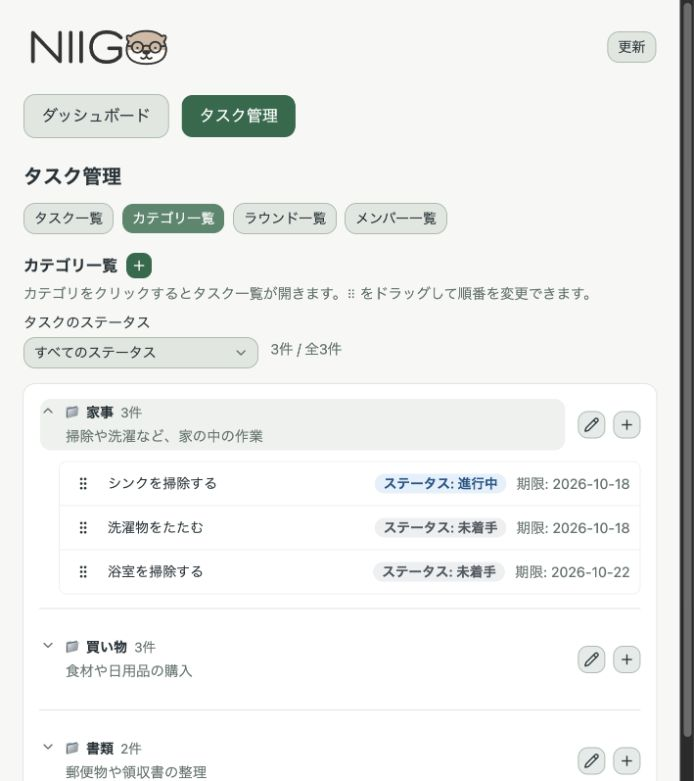
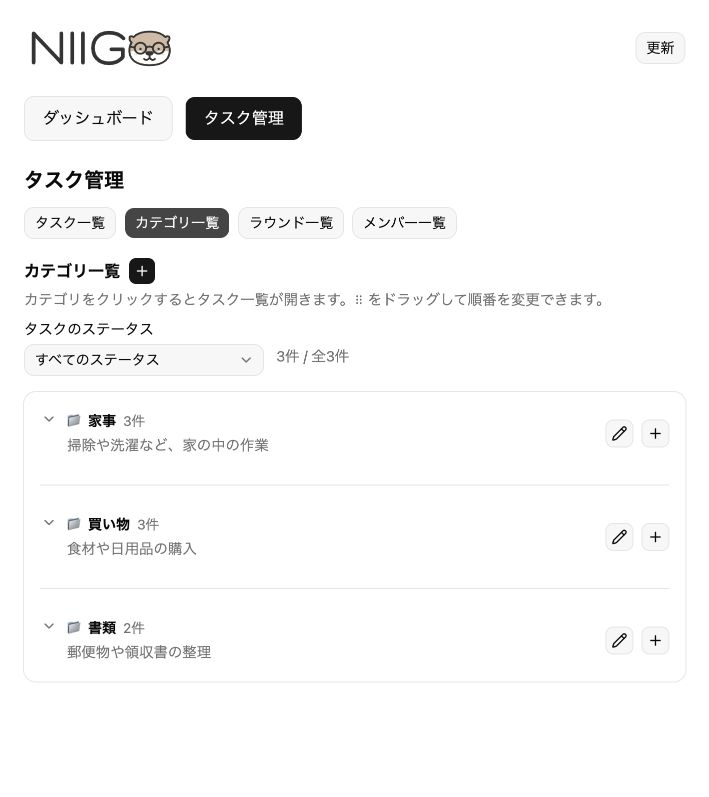
Use shadcn neutral theme for UI

diff --git a/ui/src/styles/layout.css b/ui/src/styles/layout.css
@@ -12,16 +12,16 @@ h3 { font-size: 1rem; font-weight: 600; }
 .toolbar h2, .toolbar h3 { margin: 0; }
 .muted { color: var(--muted-foreground); font-size: .9rem; }
 .toolbar .muted { margin: 4px 0 0; }
-.error { color: #a02525; background: #fff0ee; padding: 12px; border-radius: 8px; margin: 12px 0; }
+.error { color: var(--destructive); background: color-mix(in oklch, var(--destructive) 8%, white); padding: 12px; border-radius: 8px; margin: 12px 0; }
 .empty { color: var(--muted-foreground); padding: 28px; text-align: center; }
 .kanban { display: grid; grid-template-columns: repeat(3, minmax(0, 1fr)); gap: 14px; margin-top: 18px; align-items: start; }
-.kanban-column { background: #edf1ed; border-radius: 12px; padding: 12px; min-width: 0; }
-.kanban-column.drag-over { background: #dcebe0; outline: 2px dashed #5b9874; outline-offset: 2px; }
+.kanban-column { background: var(--muted); border-radius: 12px; padding: 12px; min-width: 0; }
+.kanban-column.drag-over { background: var(--accent); outline: 2px dashed var(--ring); outline-offset: 2px; }
 .kanban-column > h3, .mobile-dashboard-column > h3 { display: flex; justify-content: space-between; align-items: center; margin: 2px 2px 12px; font-size: 1rem; }
-.count { display: inline-grid; place-items: center; min-width: 24px; height: 24px; border-radius: 999px; background: #dce5de; font-size: .8rem; }
+.count { display: inline-grid; place-items: center; min-width: 24px; height: 24px; border-radius: 999px; background: var(--secondary); font-size: .8rem; }
 .kanban-category { min-width: 0; }
 .kanban-category + .kanban-category { margin-top: 16px; }
-.kanban-category h4, .round-category h4 { margin: 0 0 7px; color: #4f5752; font-size: .85rem; font-weight: 600; }
+.kanban-category h4, .round-category h4 { margin: 0 0 7px; color: var(--muted-foreground); font-size: .85rem; font-weight: 600; }
 .kanban-cards { display: grid; gap: 8px; }
 .kanban-task-row { display: flex; flex-direction: column; align-items: flex-start; gap: 4px; min-width: 0; padding: 9px 10px; cursor: grab; }
 .kanban-task-row strong, .kanban-task-row .muted { max-width: 100%; overflow-wrap: anywhere; }
@@ -35,22 +35,22 @@ h3 { font-size: 1rem; font-weight: 600; }
 .task-filter-count { padding-bottom: 9px; }
 label { display: grid; gap: 4px; margin: 10px 0; font-size: .9rem; }
 .task-list, .entity-list { display: block; padding: 4px 16px; gap: 0; }
-.task-row { display: block; border-bottom: 1px solid #edf0ed; padding: 14px 10px; }
+.task-row { display: block; border-bottom: 1px solid var(--border); padding: 14px 10px; }
 .task-row:last-child { border-bottom: 0; }
 .task-row-clickable { cursor: pointer; border-radius: 8px; }
-.task-row-clickable:hover { background: #f7faf7; }
+.task-row-clickable:hover { background: var(--accent); }
 .task-row-heading { display: flex; align-items: center; justify-content: space-between; gap: 12px; }
 .task-actions, .row-actions { display: flex; align-items: center; gap: 8px; flex-shrink: 0; }
 .task-list-heading { display: flex; align-items: center; gap: 8px; }
 .task-details, .task-categories { display: flex; flex-wrap: wrap; align-items: center; gap: 6px; margin: 8px 0; }
 .task-details { flex-direction: column; align-items: flex-start; gap: 4px; color: var(--muted-foreground); font-size: .9rem; }
-.category-badge { color: #4f5752; background: #f0f1ef; }
+.category-badge { color: var(--muted-foreground); background: var(--secondary); }
 .status-badge { width: fit-content; font-size: .85rem; font-weight: 600; }
-.status-todo { color: #505960; background: #eceff1; }
+.status-todo { color: var(--secondary-foreground); background: var(--secondary); }
 .status-progress { color: #17558a; background: #e3f0fb; }
 .status-done { color: #23643d; background: #e4f3e8; }
-.row { justify-content: space-between; border-bottom: 1px solid #edf0ed; padding: 10px 0; }
-.group-section + .group-section { border-top: 1px solid #dce4dd; margin-top: 14px; padding-top: 14px; }
+.row { justify-content: space-between; border-bottom: 1px solid var(--border); padding: 10px 0; }
+.group-section + .group-section { border-top: 1px solid var(--border); margin-top: 14px; padding-top: 14px; }
 .group-section > .row { border-bottom: 0; }
 .row-main { flex: 1; min-width: 0; max-width: 100%; }
 .group-toggle { display: flex; align-items: flex-start; justify-content: flex-start; gap: 10px; height: auto; padding: 4px 0; text-align: left; color: inherit; white-space: normal; }
@@ -61,9 +61,9 @@ label { display: grid; gap: 4px; margin: 10px 0; font-size: .9rem; }
 .category-title { display: flex; align-items: center; gap: 7px; }
 .category-title strong { min-width: 0; overflow-wrap: anywhere; }
 .category-count { color: var(--muted-foreground); font-size: .85rem; font-weight: 400; }
-.group-task-list { margin: 0 0 4px 20px; border: 1px solid #edf0ed; border-radius: 8px; overflow: hidden; }
-.group-task-row { display: flex; align-items: center; gap: 10px; min-width: 0; padding: 6px 10px; background: #fff; }
-.group-task-row + .group-task-row { border-top: 1px solid #edf0ed; }
+.group-task-list { margin: 0 0 4px 20px; border: 1px solid var(--border); border-radius: 8px; overflow: hidden; }
+.group-task-row { display: flex; align-items: center; gap: 10px; min-width: 0; padding: 6px 10px; background: var(--card); }
+.group-task-row + .group-task-row { border-top: 1px solid var(--border); }
 .group-task-row.drag-before { box-shadow: inset 0 3px var(--primary); }
 .group-task-row.drag-after { box-shadow: inset 0 -3px var(--primary); }
 .drag-handle { flex: none; cursor: grab; touch-action: none; }
@@ -71,8 +71,8 @@ label { display: grid; gap: 4px; margin: 10px 0; font-size: .9rem; }
 .group-task-title:hover { text-decoration: underline; }
 .group-task-row .status-badge, .group-task-date { flex: none; white-space: nowrap; }
 .group-task-empty { color: var(--muted-foreground); padding: 9px 12px; font-size: .9rem; }
-.round-category + .round-category { border-top: 1px solid #edf0ed; }
-.round-category h4 { margin: 0; padding: 9px 12px 5px; background: #f7faf7; }
+.round-category + .round-category { border-top: 1px solid var(--border); }
+.round-category h4 { margin: 0; padding: 9px 12px 5px; background: var(--accent); }
 [data-slot="dialog-content"].editor-dialog, [data-slot="dialog-content"].detail-dialog { width: min(560px, calc(100vw - 32px)); max-width: 560px; max-height: 85vh; overflow: auto; padding: 24px; }
 .dialog-fields { margin-top: 18px; }
 .dialog-fields label > [data-slot="native-select-wrapper"], .mobile-status-editor label > [data-slot="native-select-wrapper"] { width: 100%; }
@@ -82,12 +82,12 @@ label { display: grid; gap: 4px; margin: 10px 0; font-size: .9rem; }
 .assignee-picker { border: 1px solid var(--input); border-radius: 7px; padding: 8px 12px 12px; margin: 10px 0; min-width: 0; }
 .assignee-picker legend { padding: 0 4px; font-size: .9rem; }
 .assignee-chips, .assignee-matches { display: flex; flex-wrap: wrap; align-items: center; gap: 6px; }
-.assignee-chip { display: inline-flex; align-items: center; gap: 5px; border-radius: 999px; background: #edf5ef; color: #315d45; padding: 4px 7px 4px 10px; }
+.assignee-chip { display: inline-flex; align-items: center; gap: 5px; border-radius: 999px; background: var(--secondary); color: var(--secondary-foreground); padding: 4px 7px 4px 10px; }
 .switch-task { display: flex; align-items: center; gap: 8px; cursor: pointer; }
 .task-detail-header { display: flex; flex-direction: row; align-items: flex-start; justify-content: space-between; gap: 12px; }
 .task-detail-header [data-slot="dialog-title"] { min-width: 0; overflow-wrap: anywhere; }
 .task-detail-list { display: grid; grid-template-columns: 110px minmax(0, 1fr); gap: 10px 14px; margin: 18px 0 0; }
-.task-detail-list dt { color: #60736b; }
+.task-detail-list dt { color: var(--muted-foreground); }
 .task-detail-list dd { margin: 0; overflow-wrap: anywhere; }
 .task-detail-description { white-space: pre-wrap; }
 .task-detail-description a { color: #1769aa; text-decoration: underline; overflow-wrap: anywhere; }
@@ -95,9 +95,9 @@ label { display: grid; gap: 4px; margin: 10px 0; font-size: .9rem; }
   .kanban { display: none; }
   .mobile-status-tabs { display: flex; gap: 8px; overflow-x: auto; margin: 12px 0; }
   .mobile-status-tabs [data-slot="button"] { flex: 1; white-space: nowrap; }
-  .mobile-dashboard-column { display: block; background: #edf1ed; border-radius: 12px; padding: 12px; }
+  .mobile-dashboard-column { display: block; background: var(--muted); border-radius: 12px; padding: 12px; }
   .dashboard-desktop-hint { display: none; }
-  .mobile-status-editor { display: block; margin-top: 18px; padding-top: 12px; border-top: 1px solid #dce4dd; }
+  .mobile-status-editor { display: block; margin-top: 18px; padding-top: 12px; border-top: 1px solid var(--border); }
 }
 @media (max-width: 600px) {
   .app-shell { padding: 14px; }

diff --git a/ui/src/styles/globals.css b/ui/src/styles/globals.css
@@ -2,28 +2,28 @@
 @import "./layout.css";
 
 :root {
-  --background: #f7f8f6;
-  --foreground: #263238;
-  --card: #ffffff;
-  --card-foreground: #263238;
-  --popover: #ffffff;
-  --popover-foreground: #263238;
-  --primary: #236b4b;
-  --primary-foreground: #ffffff;
-  --secondary: #edf5ef;
-  --secondary-foreground: #315d45;
-  --muted: #edf1ed;
-  --muted-foreground: #60736b;
-  --accent: #edf5ef;
-  --accent-foreground: #315d45;
-  --destructive: #a02525;
-  --border: #dce4dd;
-  --input: #aabbb0;
-  --ring: #5b9874;
-  --radius: .75rem;
-  --radius-sm: .5rem;
-  --radius-md: .625rem;
-  --radius-lg: .75rem;
+  --background: oklch(1 0 0);
+  --foreground: oklch(0.145 0 0);
+  --card: oklch(1 0 0);
+  --card-foreground: oklch(0.145 0 0);
+  --popover: oklch(1 0 0);
+  --popover-foreground: oklch(0.145 0 0);
+  --primary: oklch(0.205 0 0);
+  --primary-foreground: oklch(0.985 0 0);
+  --secondary: oklch(0.97 0 0);
+  --secondary-foreground: oklch(0.205 0 0);
+  --muted: oklch(0.97 0 0);
+  --muted-foreground: oklch(0.556 0 0);
+  --accent: oklch(0.97 0 0);
+  --accent-foreground: oklch(0.205 0 0);
+  --destructive: oklch(0.577 0.245 27.325);
+  --border: oklch(0.922 0 0);
+  --input: oklch(0.922 0 0);
+  --ring: oklch(0.708 0 0);
+  --radius: .625rem;
+  --radius-sm: .375rem;
+  --radius-md: .5rem;
+  --radius-lg: .625rem;
 }
 
 @theme inline {
